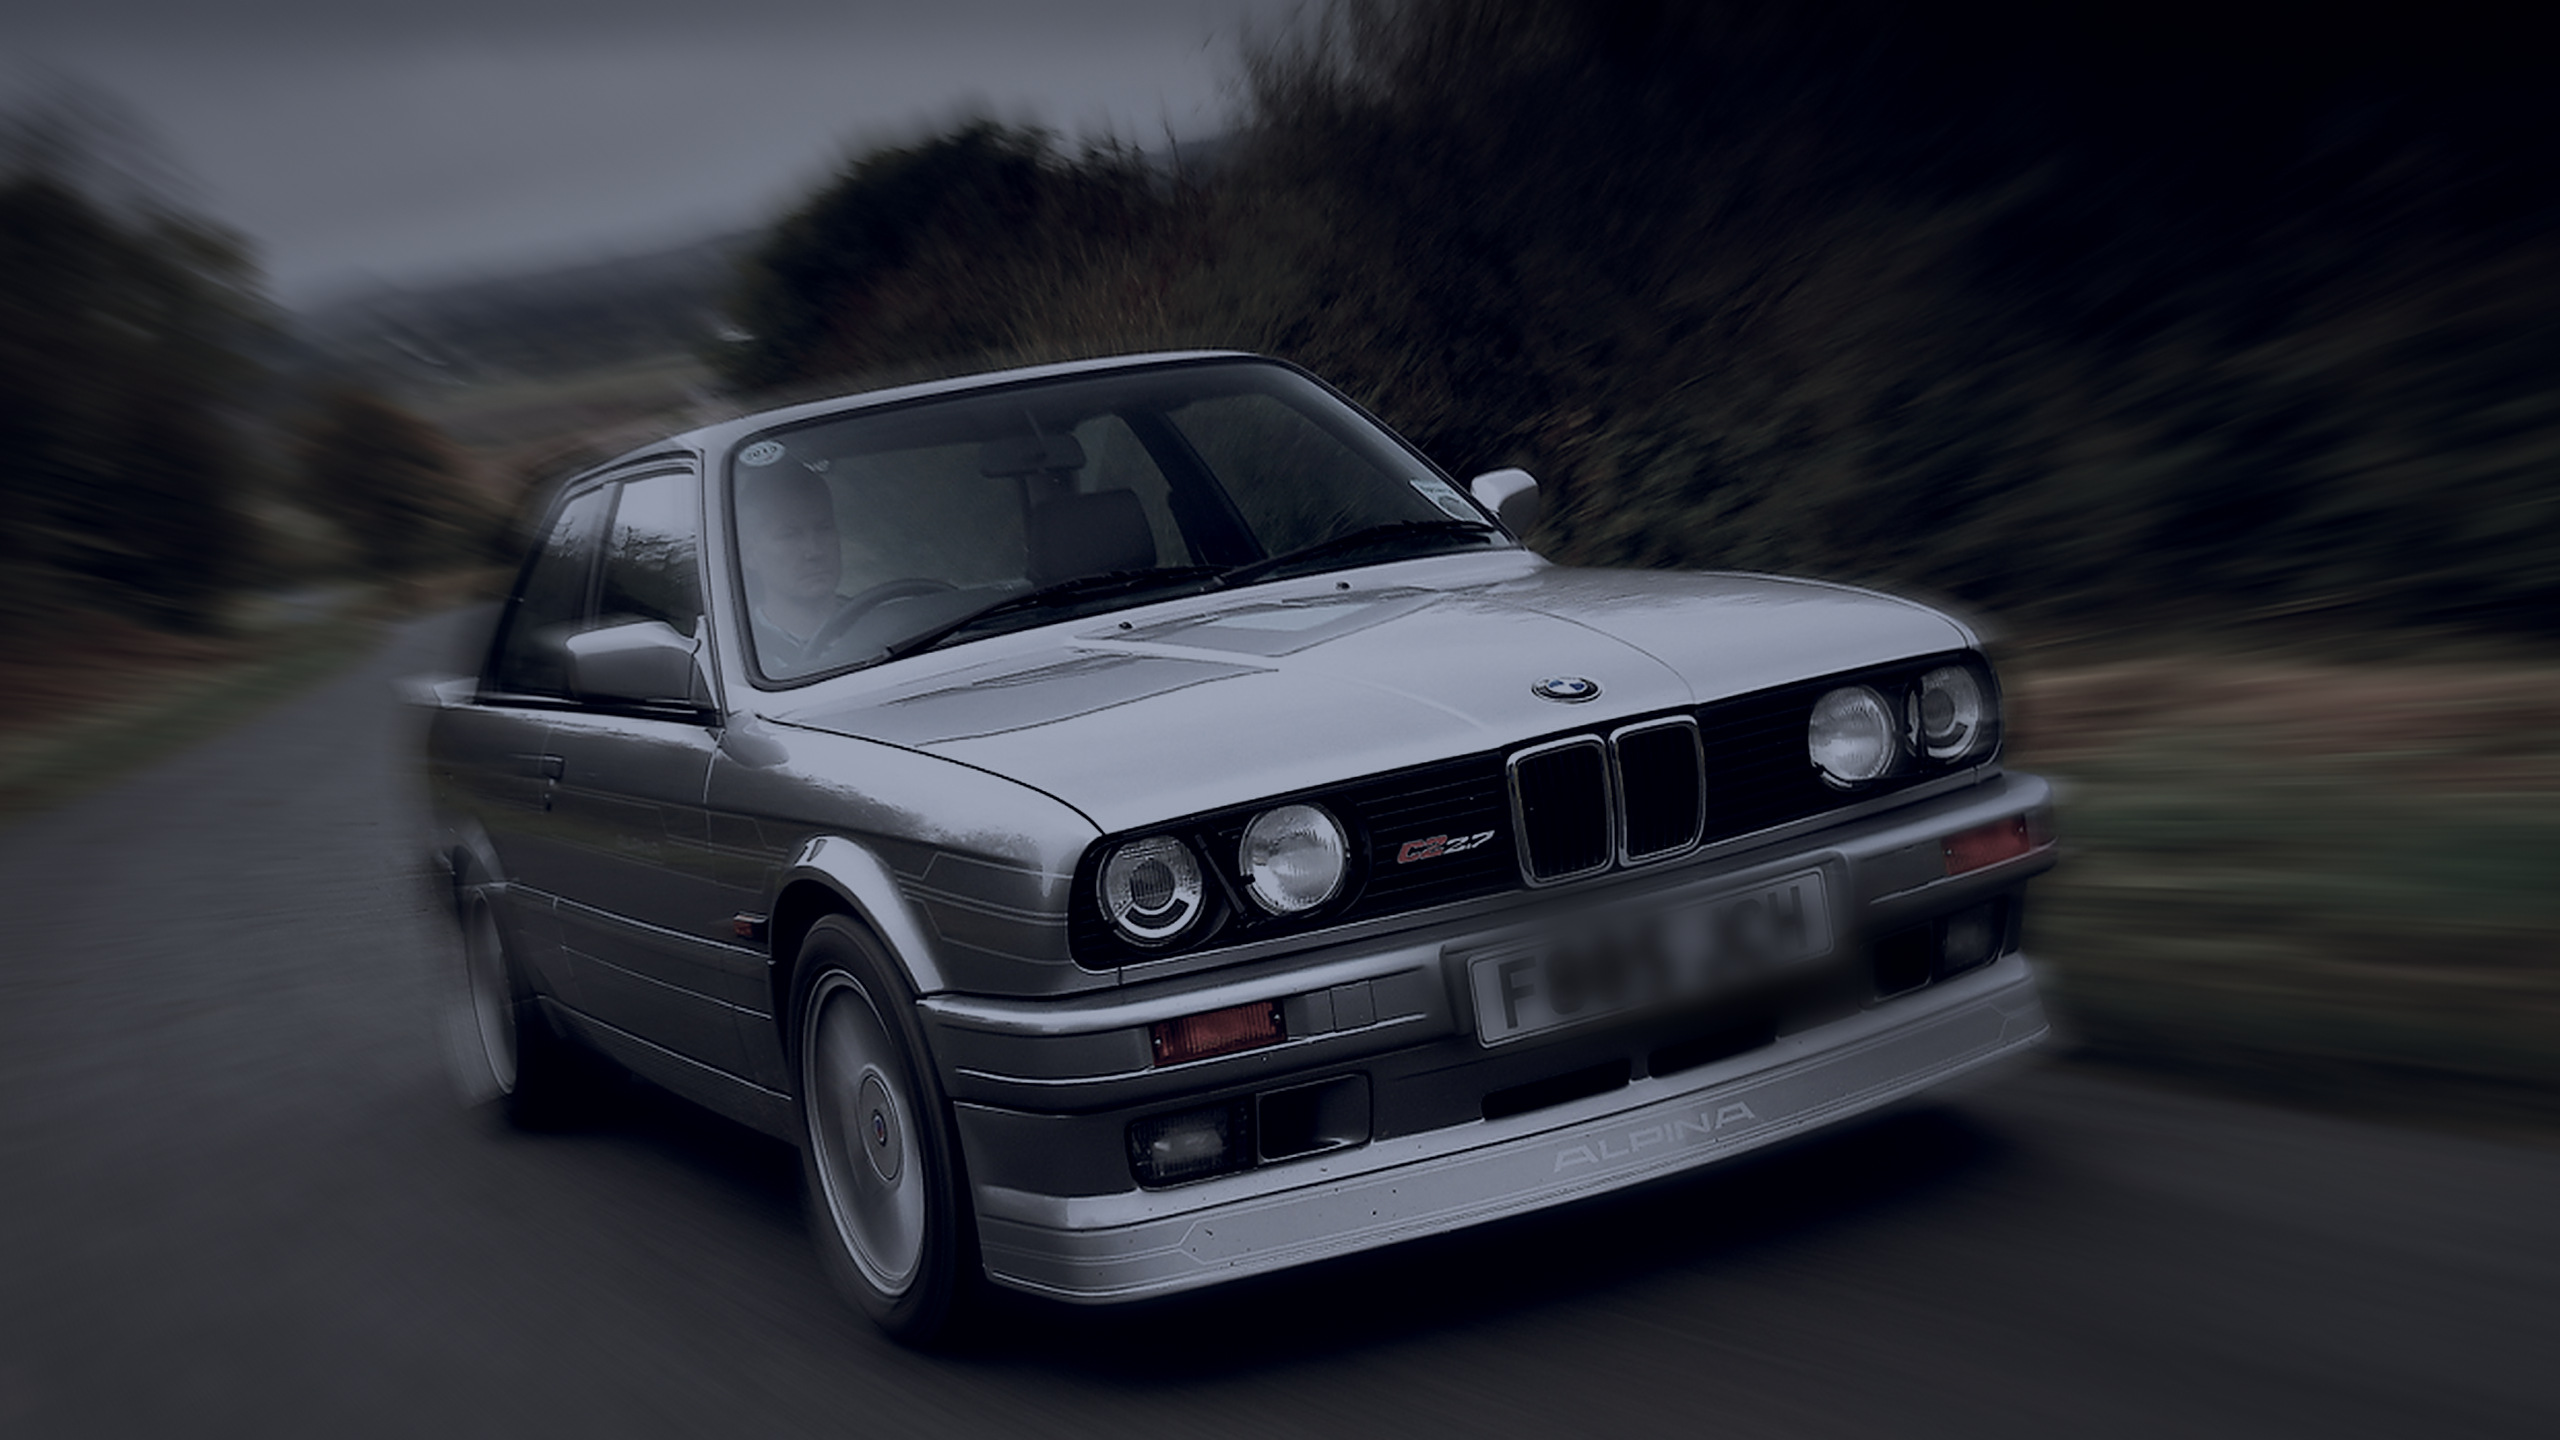
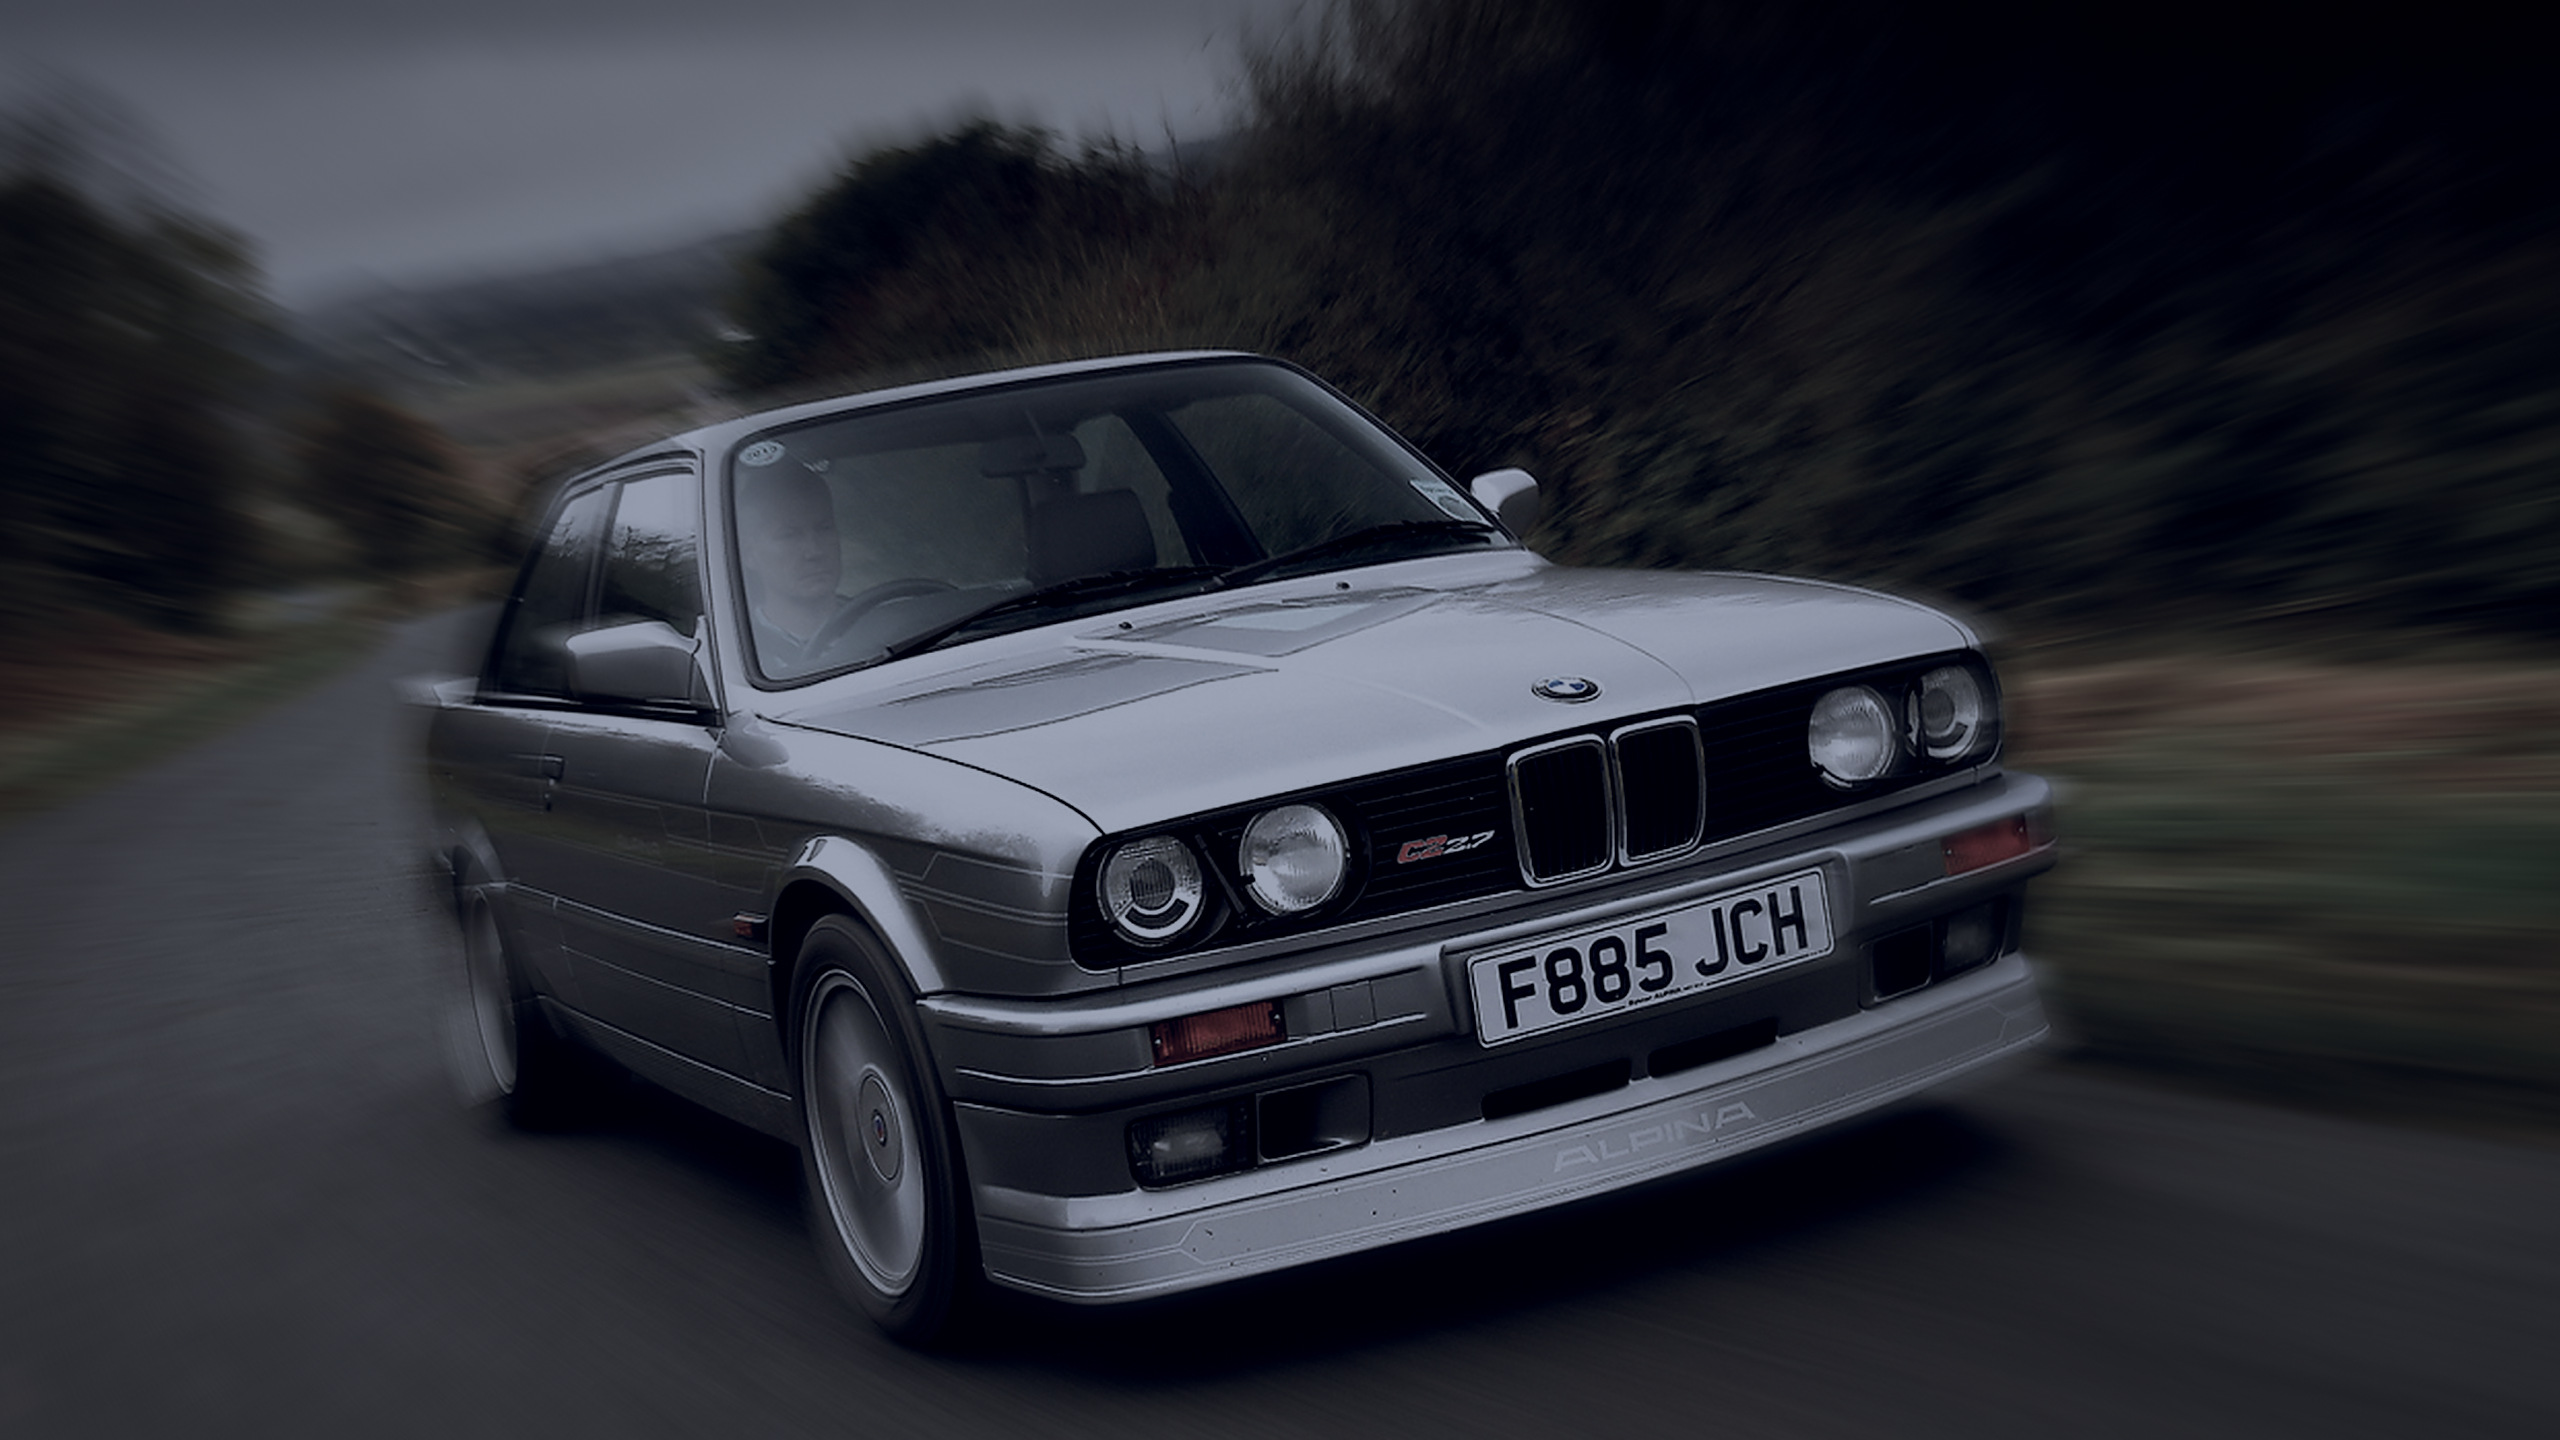
Show the number plate on the hero wallpaper
The plate was blurred and darkened on the grounds that it is a real
registration and, being retroreflective, the brightest object in the
frame. Obscuring it was the wrong trade: it left a soft grey smear
across the front valance that drew more attention than the plate ever
did, and the plate is part of the car — the ALPINA dealer sticker on it
and the C2 2.7 badge above read as one piece of detailing.

- Drop the knockdown from the hero recipe. F885 JCH is sharp again.
- soften_regions() stays in the grader as a general tool for images that
  genuinely need something removed; its docstring no longer implies the
  hero uses it, and no shipped recipe now does.
- README and backgrounds/CREDITS.md both claimed the registration was
  unreadable. Corrected.

Claude-Session: https://claude.ai/code/session_01CiKLSgpwpqdQ4mcEPDWheW

Changed region(s): [[0.5312, 0.5938, 0.7188, 0.7188], [0.7188, 0.6875, 0.75, 0.7188], [0.6875, 0.7188, 0.7188, 0.75]]

diff --git a/bin/grade-wallpaper.py b/bin/grade-wallpaper.py
@@ -64,8 +64,9 @@ RECIPES = {
         "contrast": 1.06,
         "shadow_lift": 0.11,
         "ui_band": 0.28,
-        # The number plate, and the bright verge behind the front wing.
-        "knockdown": [(0.566, 0.606, 0.738, 0.724, 0.72, 11.0)],
+        # No knockdown. The plate is part of the car and reads as part of the
+        # car; obscuring it left a soft grey smear across the front valance,
+        # which drew more attention than the plate ever did.
         "note": "BMW E30 ALPINA C2 2.7",
     },
     "alpina-b7-iaa-2017-frankfurt-1y7a3123": {
@@ -170,11 +171,14 @@ def soften_regions(
     """
     Blur named rectangles before grading.
 
-    Darkening alone cannot retire a number plate: a plate is black characters
-    on a retroreflective ground, so lowering the exposure scales both and the
-    registration stays perfectly legible. Only blur destroys the letterforms.
-    This is a real car and a real registration, so the plate gets blurred and
-    then darkened, which also happens to look like a press car.
+    Available for images that need it; no shipped recipe uses it.
+
+    Exposure alone cannot retire a detail like a number plate: a plate is black
+    characters on a retroreflective ground, so lowering the exposure scales
+    both and it stays perfectly legible. Only blur destroys the letterforms,
+    which is why the two are applied together — blur here, darkening later in
+    grade(). Reach for it when something in a frame genuinely has to go, not
+    for anything that is simply bright.
     """
     blurred_cache: dict[float, Image.Image] = {}
     out = im

diff --git a/README.md b/README.md
@@ -210,10 +210,14 @@ treatment the others do not: the photograph is a pan, so the surroundings are
 already streaked and the car is already sharp, and `power_treatment()` extends
 exactly that — scaling the frame about the car and averaging the stack, then
 blending the subject back sharp through a radial mask. It reads as more of what
-the photograph is doing rather than as a filter laid over it. The number plate
-is blurred and knocked back: it is a real registration, and a retroreflective
-plate is engineered to be the brightest object in any photograph of a car, so
-after grading it was the first thing the eye landed on.
+the photograph is doing rather than as a filter laid over it.
+
+The number plate is left alone. An earlier pass blurred it — a plate is
+retroreflective and therefore the brightest object in almost any photograph of
+a car — but obscuring it just left a soft grey smear across the front valance,
+which drew more attention than the plate ever did. It is part of the car and it
+reads as part of the car. `soften_regions()` is still there in the grader for
+images that genuinely need something removed; no shipped recipe uses it.
 
 It is rendered at 1440p rather than 4K. The source is 1240px wide, and
 inventing three times that many pixels only produces mush.

diff --git a/backgrounds/CREDITS.md b/backgrounds/CREDITS.md
@@ -8,8 +8,8 @@ if you redistribute anything.
 `01-alpina-e30-c2.jpg` — BMW E30 ALPINA C2 2.7
 
 Supplied by the repository owner and processed by `bin/grade-wallpaper.py`
-(panning amplified, desaturated, cooled, darkened, vignetted; the number plate
-is blurred and knocked back so the registration is not readable).
+(panning amplified, desaturated, cooled, graded and vignetted). The car is
+shown as photographed, number plate included.
 
 **Its copyright status has not been established.** The source has the look of
 commissioned motoring-press photography, which is normally all-rights-reserved,
